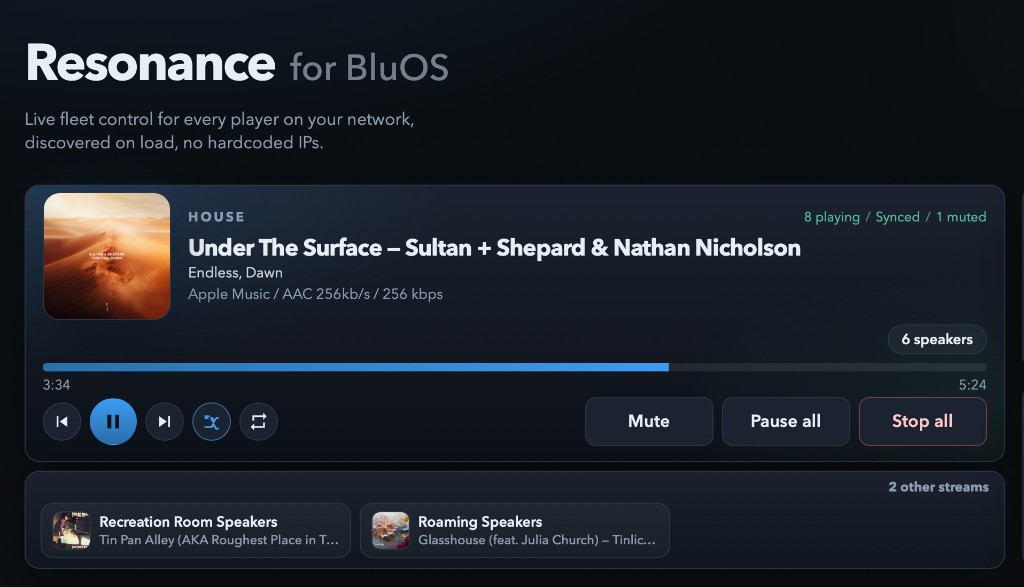
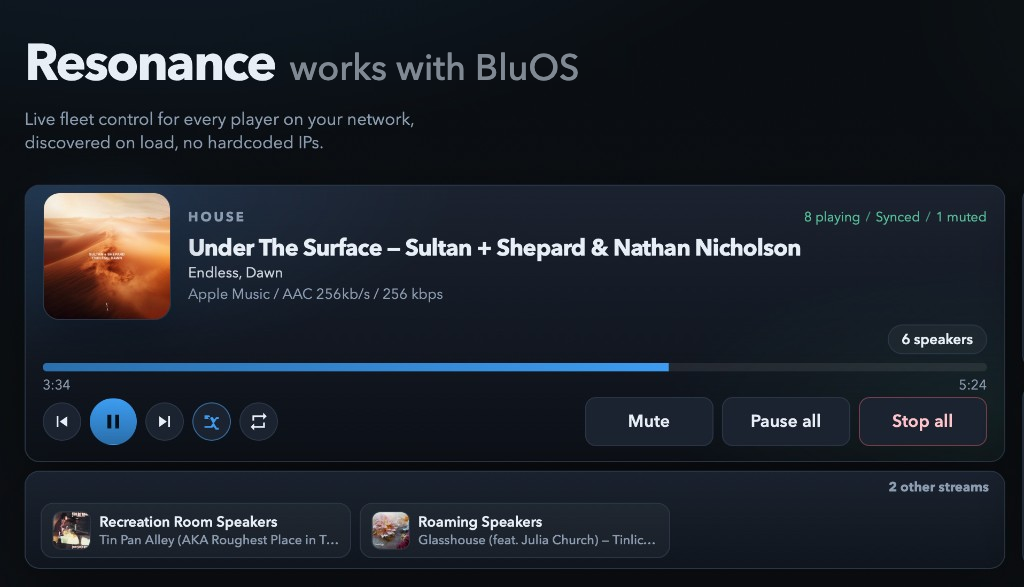
fix: say 'works with BluOS' instead of 'for BluOS' (#50)

Changed region(s): [[0.2812, 0.092, 0.5625, 0.1533]]

diff --git a/frontend/index.html b/frontend/index.html
@@ -11,7 +11,7 @@
   <head>
     <meta charset="UTF-8" />
     <meta name="viewport" content="width=device-width, initial-scale=1.0, viewport-fit=cover" />
-    <meta name="description" content="Resonance for BluOS: control every BluOS player on your network" />
+    <meta name="description" content="Resonance: control every BluOS player on your network" />
     <meta name="theme-color" content="#0c1014" />
     <meta name="mobile-web-app-capable" content="yes" />
     <meta name="apple-mobile-web-app-capable" content="yes" />

diff --git a/frontend/tests/FleetPage.test.tsx b/frontend/tests/FleetPage.test.tsx
@@ -141,7 +141,7 @@ describe('FleetPage sort', () => {
 
   it('defaults to A–Z sort when no runtime groups exist', () => {
     renderFleet();
-    expect(screen.getByRole('heading', { name: 'Resonance for BluOS' })).toBeInTheDocument();
+    expect(screen.getByRole('heading', { name: 'Resonance works with BluOS' })).toBeInTheDocument();
     expect(
       screen.getByText(
         'Live fleet control for every player on the network.',

diff --git a/frontend/src/components/FleetPage.tsx b/frontend/src/components/FleetPage.tsx
@@ -56,7 +56,7 @@ export function FleetPage() {
       <header className="app-header">
         <div>
           <h1 className="brand">
-            Resonance <span className="brand-tagline">for BluOS</span>
+            Resonance <span className="brand-tagline">works with BluOS</span>
           </h1>
           <p className="brand-sub">
             Live fleet control for every player on the network.

diff --git a/backend/app/__init__.py b/backend/app/__init__.py
@@ -3,7 +3,7 @@
 # Licensed under the Apache License, Version 2.0
 # See LICENSE file for full license text
 
-"""Resonance for BluOS: FastAPI + React app that controls BluOS players on the LAN."""
+"""Resonance: FastAPI + React app that controls BluOS players on the LAN."""
 
 PRODUCT_NAME = "Resonance"
 PACKAGE_NAME = "resonance"

diff --git a/README.md b/README.md
@@ -1,4 +1,4 @@
-# Resonance for BluOS
+# Resonance
 
 [![Tests](https://github.com/tbaur/resonance/actions/workflows/test.yml/badge.svg?branch=main)](https://github.com/tbaur/resonance/actions/workflows/test.yml?query=branch%3Amain)
 [![CodeQL](https://github.com/tbaur/resonance/actions/workflows/codeql.yml/badge.svg?branch=main)](https://github.com/tbaur/resonance/actions/workflows/codeql.yml?query=branch%3Amain)
